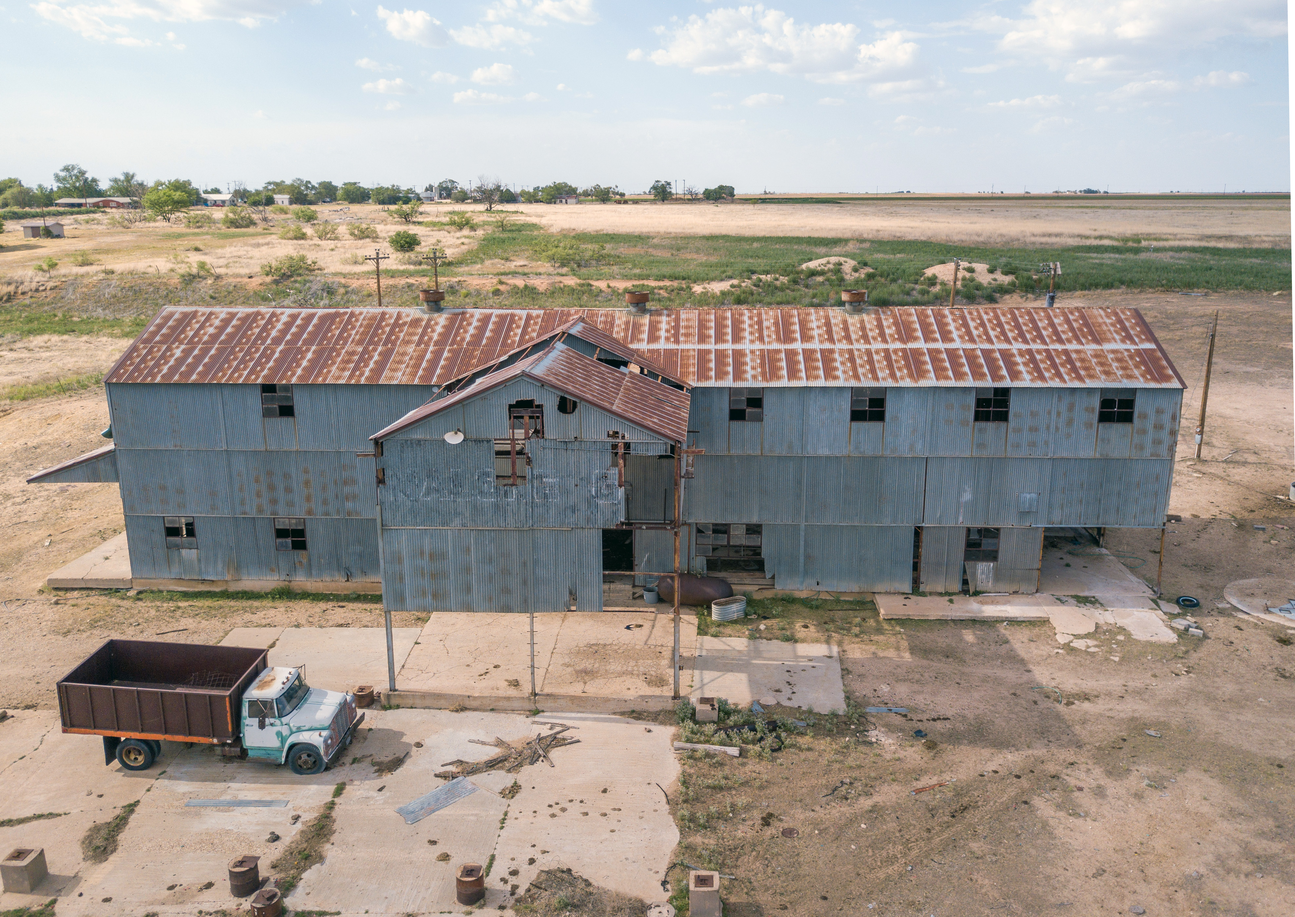
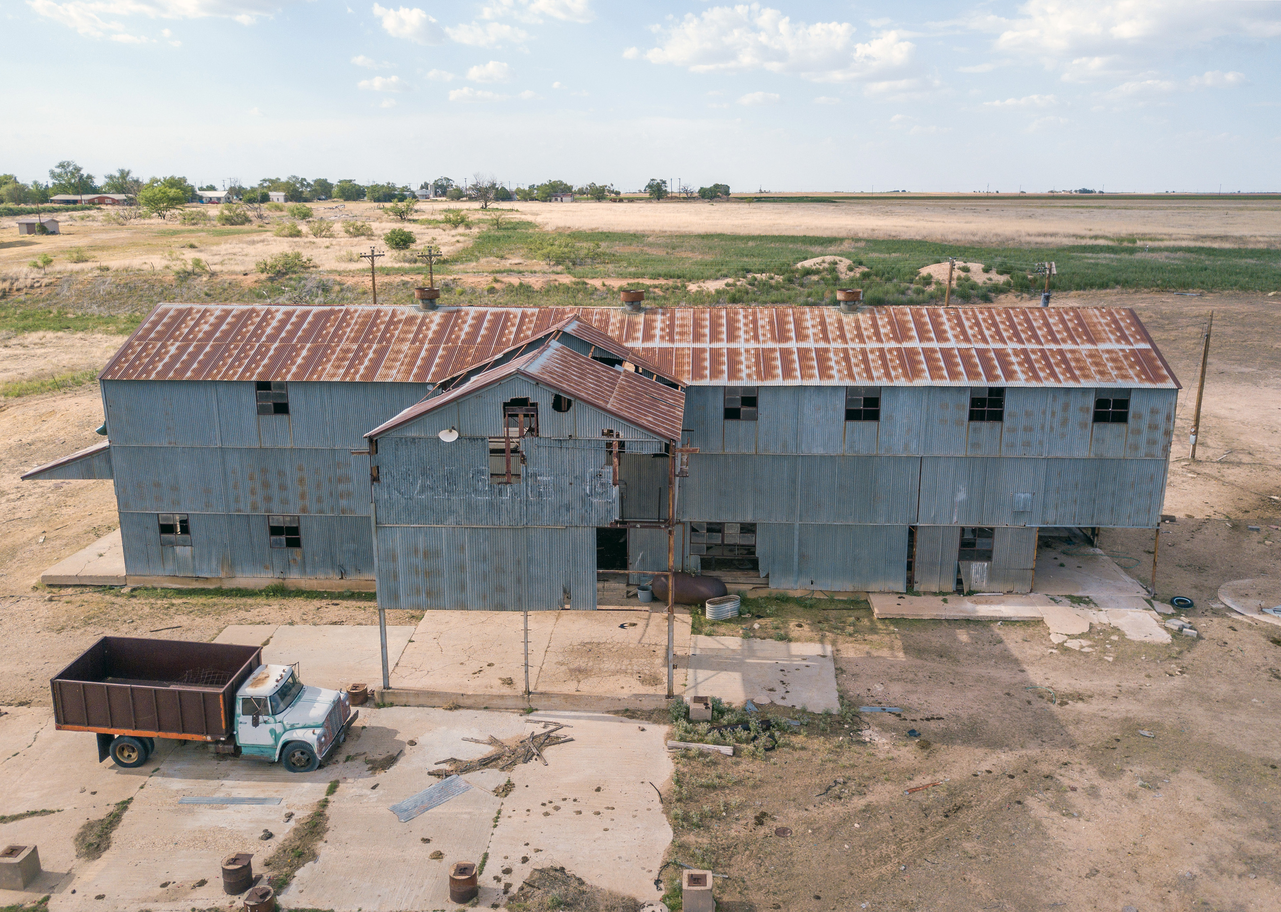
20260908-AM1

Changed region(s): [[0.0, 0.0, 1.0, 1.0]]

diff --git a/src/data/photography.ts b/src/data/photography.ts
@@ -840,7 +840,7 @@ const galleryData: GalleryInput[] = [
         place: 'Crowell, Foard County, Texas',
         lat:  33.981942, lng: -99.723596,
         specs: '70mm \u00B7 \u0192/8 \u00B7 1/320s',
-        x: 1240, y: 800, w: 250,
+        x: 1240, y: 950, w: 250,
         caption: 'This gin in Crowell, Texas sits south of the town\'s square and shows evidence of repurposing such as a basketball hoop and other playground equipment. This gin has since been torn down.',
       },
       {
@@ -860,7 +860,7 @@ const galleryData: GalleryInput[] = [
         place: 'Estacado, Lubbock County, Texas',
         lat:  33.749344, lng: -101.563731,
         specs: '20mm \u00B7 \u0192/8 \u00B7 1/100s',
-        x: 1060, y: 390, w: 250,
+        x: 1060, y: 300, w: 250,
         caption: 'A blanket of January snow covers Medlock\'s Estacado Gin in eastern Lubbock County. Fresh tire tracks suggest activity near the gin, but the structure and its ginning equipment no longer operate.',
       },
       {
@@ -880,7 +880,7 @@ const galleryData: GalleryInput[] = [
         place: 'Lakeview, Floyd County, Texas',
         lat:  33.877, lng: -101.254,
         specs: '175mm \u00B7 \u0192/8 \u00B7 1/2500s',
-        x: 980, y: 660, w: 250,
+        x: 980, y: 560, w: 250,
         caption: 'The Lakeview Gin occupies a prominent position at the crossroads of FM 1958 and FM 651 in rural southeastern Floyd County. Elevators and the gin\'s scale house are visible near the gin yard.',
       },
       {
@@ -900,7 +900,7 @@ const galleryData: GalleryInput[] = [
         place: 'Spur, Dickens County, Texas',
         lat:  33.475086, lng: -100.859146,
         specs: '70mm \u00B7 \u0192/8 \u00B7 1/320s',
-        x: 1250, y: 600, w: 250,
+        x: 1250, y: 770, w: 250,
         caption: 'One of several deteriorating gins in Spur, this elongated gin is still used for storage. While some windows are broken or missing, the aging gin remains in remarkably good condition.',
       },
       {
@@ -930,7 +930,7 @@ const galleryData: GalleryInput[] = [
         place: 'Dumont, King County, Texas',
         lat:  33.809431, lng: -100.515636,
         specs: '24mm \u00B7 \u0192/2.2 \u00B7 1/1050s',
-        x: 1000, y: 180, w: 250,
+        x: 1000, y: 120, w: 250,
         caption: 'An aerial view of the historic Dumont Gin. This gin is one of the oldest extant gin structures on the Texas plains. This aerial view shows the gin with the rolling prairies of King County and Dickens County to the east.',
       },
       {
@@ -982,6 +982,76 @@ const galleryData: GalleryInput[] = [
         specs: '24mm \u00B7 \u0192/8 \u00B7 1/400s',
         x: 500, y: 360, w: 250,
         caption: 'The Needmore Co-Op gin stood at the crossroads of Highway 214 and FM 298 in Bailey County. The gin, which shows signs of deterioration here, was a mainstay in the central part of the county for decades through the late-1990s. The structure was torn down in 2025.',
+      },
+      {
+        sheet: 'Sheet 2',
+        file: 'cotton_gins/fieldton20180704-006.jpg',
+        title: 'Malone Gin',
+        place: 'Fieldton, Bailey County, Texas',
+        lat:  34.034571, lng: -102.221556,
+        specs: '12mm \u00B7 \u0192/2.2 \u00B7 1/800s',
+        x: 970, y: 770, w: 250,
+        caption: 'The Malone Gin at Fieldton in Lamb County sits just north of the other gin in the Blackwater Draw. It is possible to make out the words "Malone Gin" on the front of this structure. The majority of this building\'s corrugated metal remains intact, but many of the windows have been destroyed.',
+      },
+      {
+        sheet: 'Sheet 2',
+        file: 'cotton_gins/matadorgpp.2018.0012.jpg',
+        title: 'Gin east of Matador',
+        place: 'Matador, Motley County, Texas',
+        lat:  34.010154, lng: -100.796685,
+        specs: '70mm \u00B7 \u0192/8 \u00B7 1/320s',
+        x: 1600, y: 200, w: 250,
+        caption: 'This gin that stands east of Matador is one of the last outposts of noticeable civilization on Highway 62 as one travels east towards Paducah. The imposing structure conforms to the typical West Texas gin in construction and rusting patterns.',
+      },
+      {
+        sheet: 'Sheet 2',
+        file: 'cotton_gins/easter20220122-4.jpg',
+        title: 'Easter Community Gin',
+        place: 'Easter, Castro County, Texas',
+        lat:  34.645635, lng: -102.398295,
+        specs: '50mm \u00B7 \u0192/8 \u00B7 1/1250s',
+        x: 1250, y: 550, w: 250,
+        caption: '',
+      },
+      {
+        sheet: 'Sheet 2',
+        file: 'cotton_gins/abernathy2gpp.2018.0010.jpg',
+        title: 'Farmers Tuco Gin Inc.',
+        place: 'Abernathy, Hale County, Texas',
+        lat:  33.876363, lng: -101.857859,
+        specs: '200mm \u00B7 \u0192/5.6 \u00B7 1/640s',
+        x: 1800, y: 650, w: 250,
+        caption: 'The Farmers Tuco Gin in Abernathy is still operational. While this photograph was taken in February 2018, remnant cotton seed from the previous season\'s harvest is plainly visible. Like other regional gins, this structure features numerous additions and enhancements to facilitate new equipment and expanded operations.',
+      },
+      {
+        sheet: 'Sheet 3',
+        file: 'cotton_gins/grow1gpp.2018.0025.jpg',
+        title: 'Grow Gin',
+        place: 'Grow, King County, Texas',
+        lat:  33.810704, lng: -100.304183,
+        specs: '200mm \u00B7 \u0192/5.6 \u00B7 1/640s',
+        x: 1000, y: 550, w: 250,
+        caption: 'This close-up view of the front of the Grow Gin shows its final signage and the state of its metal siding. It is evident from this view that some of the metal has been replaced or some of it is newer than other portions. Bullet holes or hailstone damage on the signage is evident.',
+      },
+      {
+        sheet: 'Sheet 3',
+        file: 'cotton_gins/lakeview20220213-5.jpg',
+        title: 'Lakeview Gin Closeup',
+        place: 'Lakeview, Floyd County, Texas',
+        lat:  33.877, lng: -101.254,
+        specs: '24mm \u00B7 \u0192/8 \u00B7 1/1600s',
+        x: 800, y: 350, w: 250,
+        caption: 'The Lakeview Gin at Lakeview in Floyd County remains a suitable structure for storing some old farm equipment on the harsh Llano Estacado. This gin is in good shape, but it is showing its age with rusted metal and broken windows. The Hardwicke-Etter signage remains in good shape.',
+      },
+      {
+        sheet: 'Sheet 3',
+        file: 'cotton_gins/lumsdenaerial.jpg',
+        title: 'Lumsden-Perkins Gin Aerial',
+        place: 'Littlefield, Lamb County, Texas',
+        lat:  33.916605, lng: -102.398870,
+        specs: '12mm \u00B7 \u0192/2.8 \u00B7 1/500s',
+        x: 1100, y: 350, w: 250,
+        caption: 'An aerial view of the Lumsden-Perkins Gin west of Littlefield. Several structures are still standing and illustrate the once-thriving gin and its operations. Photographed here in November 2025, the deteriorating structures continue to be a presence on the gin yard. A segment of the corrugated metal roof is missing.',
       },
     ],
   }
